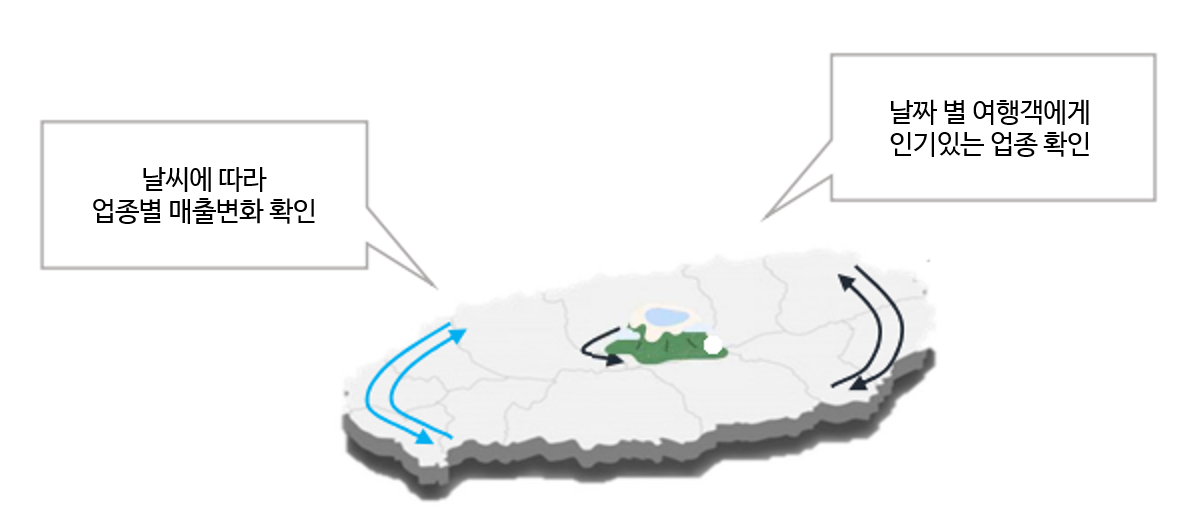
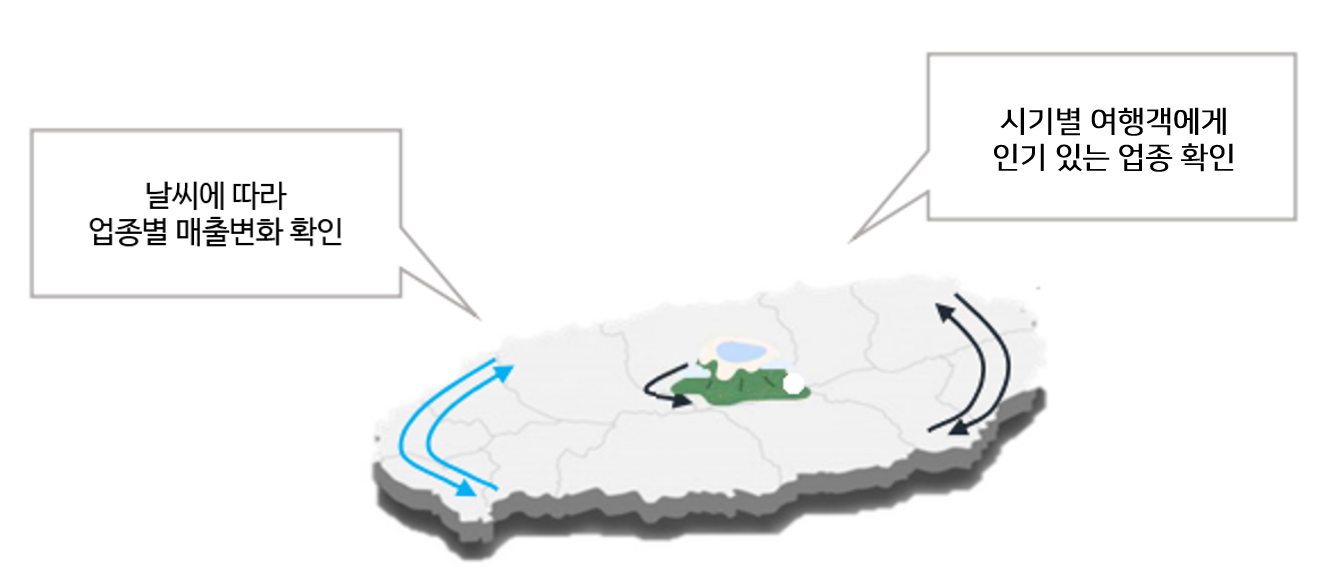
no message

diff --git a/page/final.py b/page/final.py
@@ -1,0 +1,45 @@
+import streamlit as st
+import pandas as pd
+import numpy as np
+import matplotlib.pyplot as plt
+from matplotlib import font_manager
+
+
+font_path = 'C:/Windows/Fonts/NanumGothic.ttf'
+fontprop = font_manager.FontProperties(fname=font_path, size=10)
+
+def app():
+    # cleaned_data.csv 파일 읽기
+    df = pd.read_csv('cleaned_data.csv')
+
+    seasonal_avg_revenues = df.groupby(['계절', '업종_분류'])['이용금액'].mean().reset_index()
+
+    # 계절별 업종별 이용금액 평균값 정렬 후 출력
+    st.write('## 봄 계절 업종별 이용금액 평균 (오름차순)')
+    spring_data = seasonal_avg_revenues[seasonal_avg_revenues['계절'] == '봄']
+    spring_data_sorted = spring_data.sort_values('이용금액', ascending=True)
+    st.write(spring_data_sorted)
+
+    st.write('## 여름 계절 업종별 이용금액 평균 (오름차순)')
+    summer_data = seasonal_avg_revenues[seasonal_avg_revenues['계절'] == '여름']
+    summer_data_sorted = summer_data.sort_values('이용금액', ascending=True)
+    st.write(summer_data_sorted)
+
+    st.write('## 가을 계절 업종별 이용금액 평균 (오름차순)')
+    fall_data = seasonal_avg_revenues[seasonal_avg_revenues['계절'] == '가을']
+    fall_data_sorted = fall_data.sort_values('이용금액', ascending=True)
+    st.write(fall_data_sorted)
+
+    st.write('## 겨울 계절 업종별 이용금액 평균 (오름차순)')
+    winter_data = seasonal_avg_revenues[seasonal_avg_revenues['계절'] == '겨울']
+    winter_data_sorted = winter_data.sort_values('이용금액', ascending=True)
+    st.write(winter_data_sorted)
+
+
+# 업종명이 '음식점'이고 지역분류가 'A'인 데이터만 필터링
+#food_data = df[(df['업종명'] == '음식점') & (df['지역분류'] == 'A')]
+
+# '음식점'의 이용금액 합계 계산
+#total_revenue = food_data['이용금액'].sum()
+
+#golf_data2 = df2[(df2['업종명'] == '골프장 운영업') & (df2['지역_분류'] == '애월읍')]

diff --git a/utils/purpose_mo.py b/utils/purpose_mo.py
@@ -7,8 +7,8 @@ def get():
     st.markdown('<span style= "font-size: 20px; font-weight: bold;">[주제 및 조사목적]</span>', unsafe_allow_html=True)
     st.write('날씨에 따른 여행객들의 일정과 소비패턴을 WIFI, GPS, Sensor등을 통해 얻어진 데이터를 활용하여 연구된 논문들이 있었습니다.')
     st.write('이를 통해 아이디어를 얻어 대한민국 대표 관광지 중 하나인 제주도로 목표를 설정하고 제주도 날씨 변화에 따른 업종별 매출 패턴 변화를 알아보기 위해서 데이터를 찾아 봤습니다.')
-    st.write('그에 따라 저희는 제주도의 지역별 날씨변화에 따른 요식업, 숙박업, 편의시설 등의 업종별 매출 현황을 토대로 데이터를 분석하고 시각화하려고 합니다.')
-    st.write('그 결과 날씨에 따라 매출의 변화로 실제 기후가 얼마나 영향을 미치는지 분석을 해보고 날짜별 매출의 변화를 토대로 여행객들이 모이는 시기를 추정하려고 합니다.')
+    st.write('그에 따라 저희는 세분화된 제주도의 지역, 날씨, 업종을 구분하여 매출 변화를 분석하고 시각화하려고 합니다.')
+    st.write('그 결과 날씨와 시기에에 따라 업종의 매출의 변화가 있는지 분석을 해보고 도출된 데이터 값 토대로 여행객들이 모이는 시기를 추정하려고 합니다')
     st.image('./image/purpose.png', use_column_width=True)
     
     

diff --git a/utils/result_mo.py b/utils/result_mo.py
@@ -56,7 +56,8 @@ def result():
     data = pd.read_csv(data_path)
 
     # 웹 어플리케이션
-    st.title('[계절에 따른 업종별 매출 변화]')
+    st.title('[결론]')
+    st.subheader('[계절에 따른 업종별 매출 변화]')
 
     # 선택한 업종별로 그래프 생성
     for industry in industry_list:
